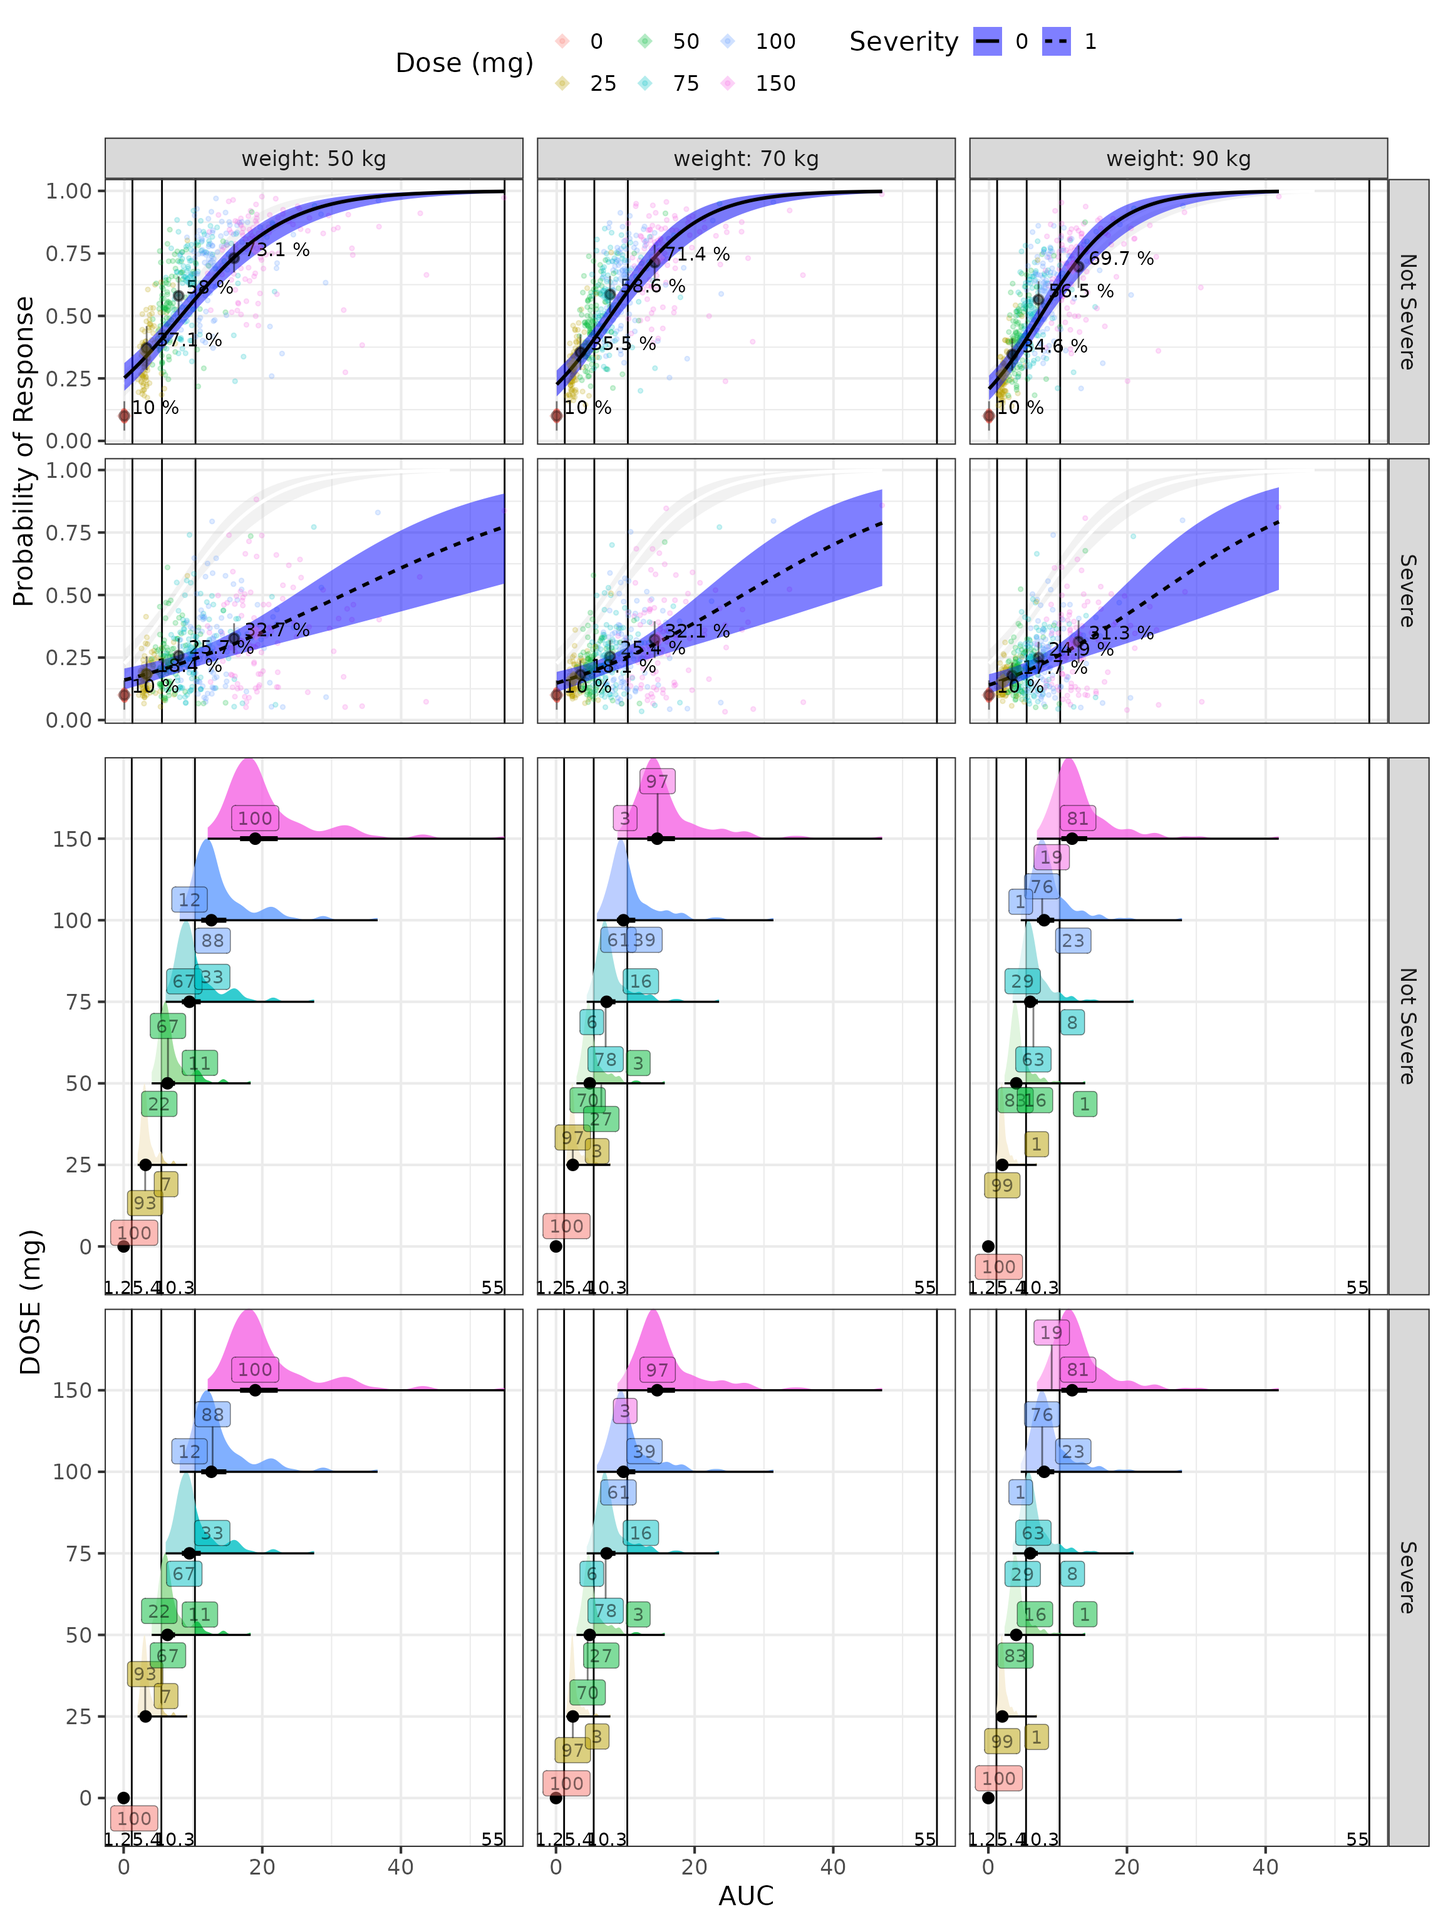
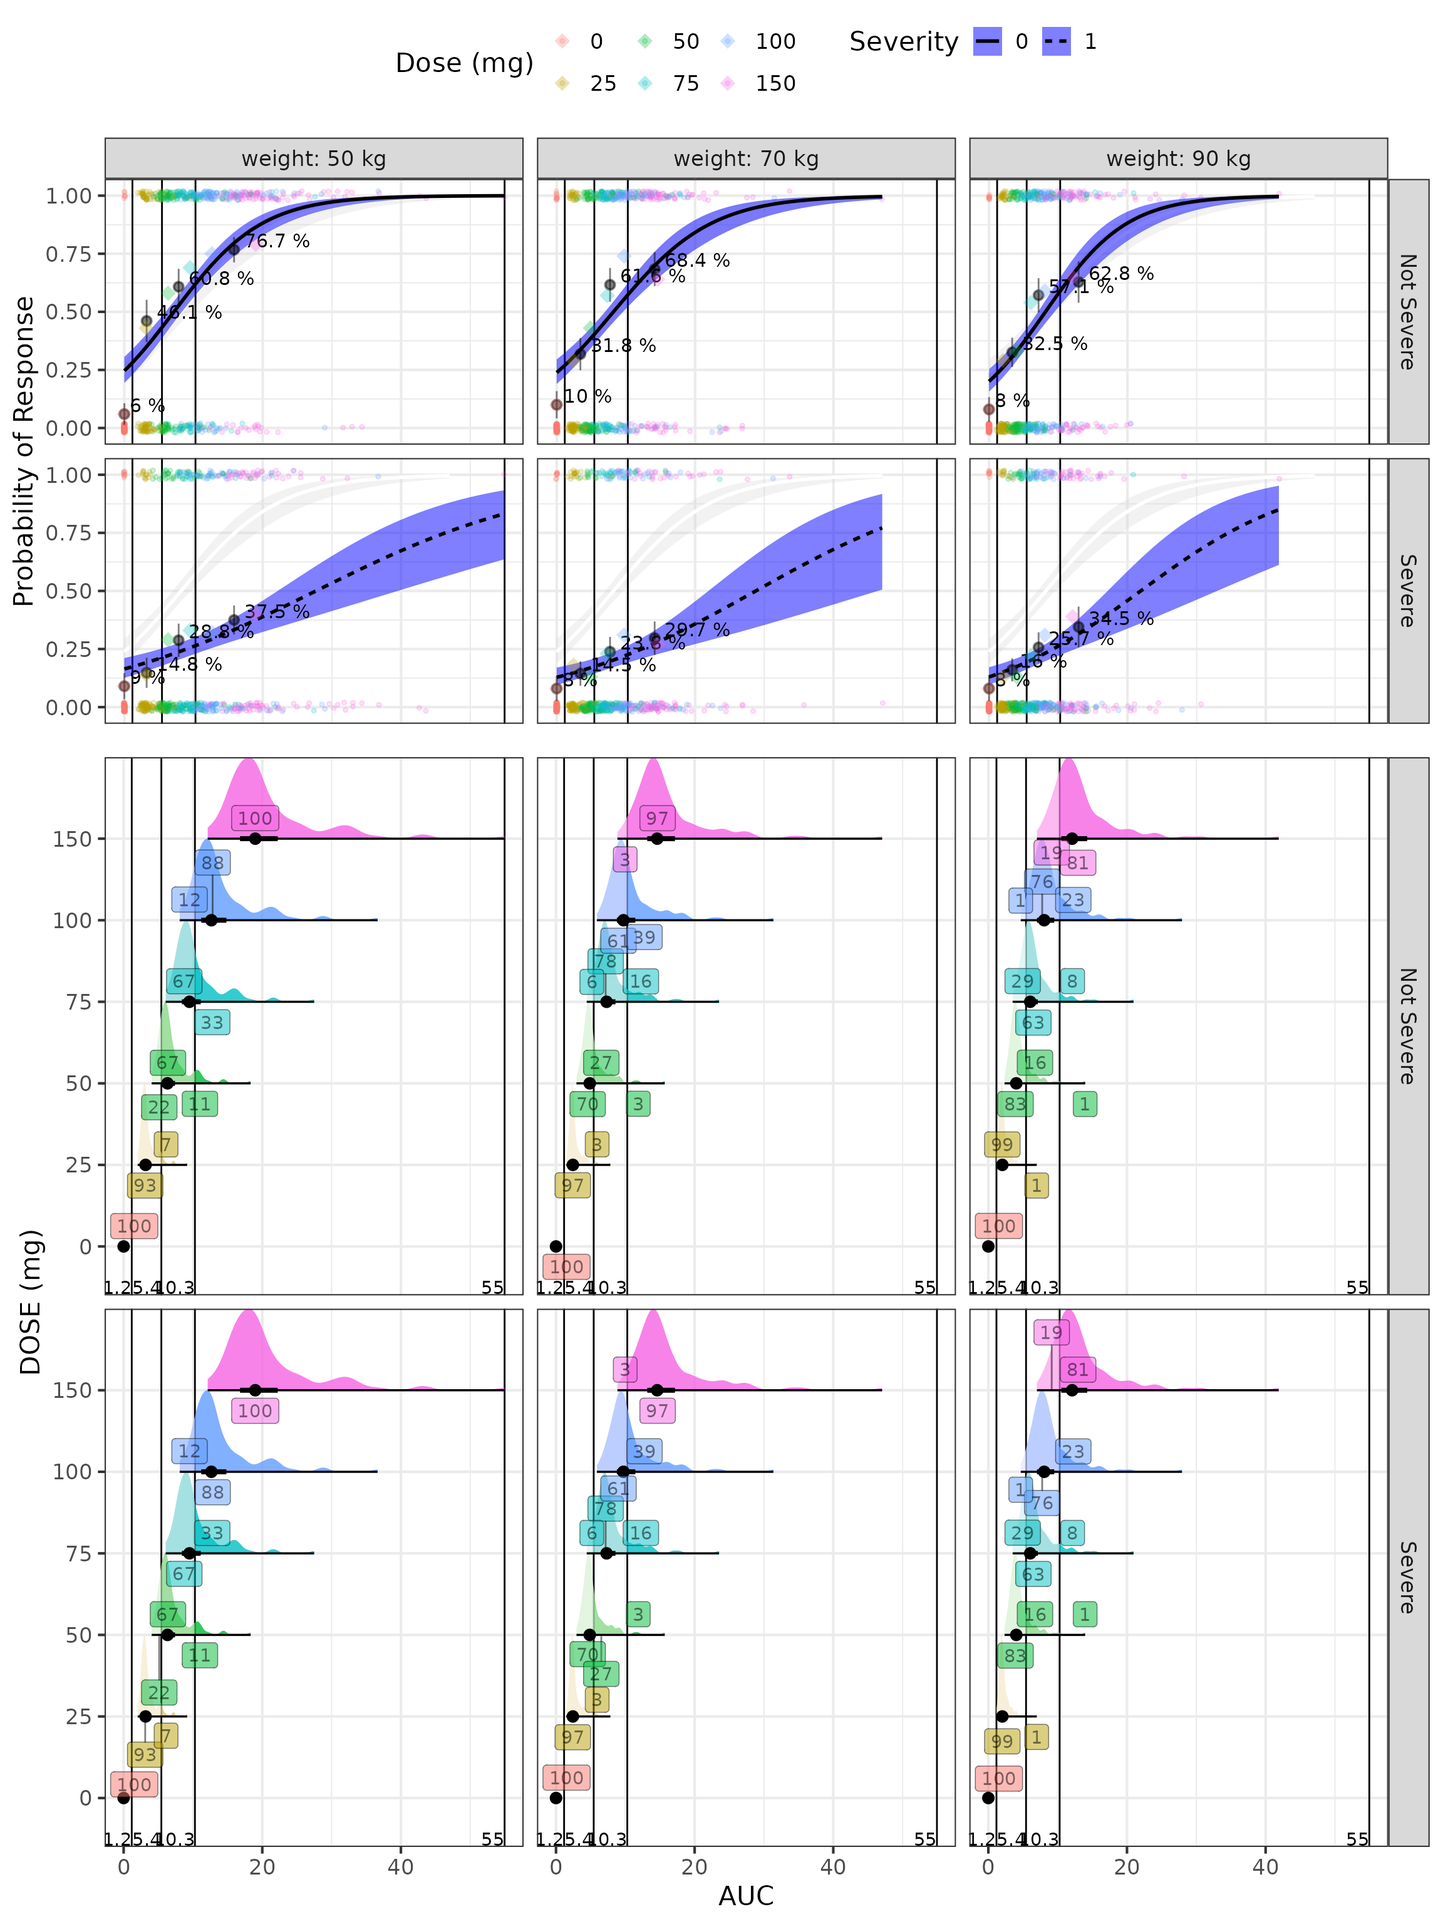
Deploying to gh-pages from @ smouksassi/coveffectsplot@5ed980b9ddfde2c44ce375ef0fc3a2d679f15c0f 🚀

diff --git a/articles/Exposure_Response_Example.html b/articles/Exposure_Response_Example.html
@@ -133,9 +133,10 @@ $$</span> The equation of the log(odds) becomes: <span class="math display">$$lo
 <span><span class="va">TypicalProb</span><span class="op">&lt;-</span> <span class="fl">1</span><span class="op">/</span><span class="op">(</span><span class="fl">1</span><span class="op">+</span><span class="fu"><a href="https://rdrr.io/r/base/Log.html" class="external-link">exp</a></span><span class="op">(</span><span class="op">-</span><span class="op">(</span><span class="fu"><a href="https://rdrr.io/r/base/Log.html" class="external-link">log</a></span><span class="op">(</span><span class="fl">0.1</span><span class="op">/</span><span class="op">(</span><span class="fl">1</span><span class="op">-</span><span class="fl">0.1</span><span class="op">)</span><span class="op">)</span> <span class="op">+</span> <span class="op">(</span><span class="fl">5</span><span class="op">*</span><span class="fl">75</span><span class="op">/</span><span class="fl">10</span><span class="op">/</span><span class="op">(</span><span class="fl">7.5</span><span class="op">+</span><span class="fl">75</span><span class="op">/</span><span class="fl">10</span><span class="op">)</span><span class="op">)</span><span class="op">)</span><span class="op">)</span><span class="op">)</span></span>
 <span><span class="va">MaxProb</span><span class="op">&lt;-</span> <span class="fl">1</span><span class="op">/</span><span class="op">(</span><span class="fl">1</span><span class="op">+</span><span class="fu"><a href="https://rdrr.io/r/base/Log.html" class="external-link">exp</a></span><span class="op">(</span><span class="op">-</span><span class="op">(</span><span class="fu"><a href="https://rdrr.io/r/base/Log.html" class="external-link">log</a></span><span class="op">(</span><span class="fl">0.1</span><span class="op">/</span><span class="op">(</span><span class="fl">1</span><span class="op">-</span><span class="fl">0.1</span><span class="op">)</span><span class="op">)</span> <span class="op">+</span> <span class="op">(</span><span class="fl">5</span><span class="op">*</span><span class="fl">750</span><span class="op">/</span><span class="fl">10</span><span class="op">/</span><span class="op">(</span><span class="fl">7.5</span><span class="op">+</span><span class="fl">750</span><span class="op">/</span><span class="fl">10</span><span class="op">)</span><span class="op">)</span><span class="op">)</span><span class="op">)</span><span class="op">)</span></span>
 <span><span class="va">MinProb</span><span class="op">&lt;-</span> <span class="fl">1</span><span class="op">/</span><span class="op">(</span><span class="fl">1</span><span class="op">+</span><span class="fu"><a href="https://rdrr.io/r/base/Log.html" class="external-link">exp</a></span><span class="op">(</span><span class="op">-</span><span class="op">(</span><span class="fu"><a href="https://rdrr.io/r/base/Log.html" class="external-link">log</a></span><span class="op">(</span><span class="fl">0.1</span><span class="op">/</span><span class="op">(</span><span class="fl">1</span><span class="op">-</span><span class="fl">0.1</span><span class="op">)</span><span class="op">)</span> <span class="op">+</span> <span class="op">(</span><span class="fl">5</span><span class="op">*</span><span class="fl">0</span><span class="op">/</span><span class="fl">10</span><span class="op">/</span><span class="op">(</span><span class="fl">7.5</span><span class="op">+</span><span class="fl">0</span><span class="op">/</span><span class="fl">10</span><span class="op">)</span><span class="op">)</span><span class="op">)</span><span class="op">)</span><span class="op">)</span></span>
-<span><span class="co">#$PLUGIN Rcpp</span></span>
+<span><span class="co">#</span></span>
 <span><span class="co"># R::runif(0,1)&lt; P1 ? 1 : 0</span></span>
 <span><span class="va">exprespmodel</span> <span class="op">&lt;-</span> <span class="st">'</span></span>
+<span><span class="st">$PLUGIN Rcpp</span></span>
 <span><span class="st">$PARAM @annotated</span></span>
 <span><span class="st">TVCL    : 10  : Clearance CL (L/h)</span></span>
 <span><span class="st">WTCL    : 0.75: Weight on CL (ref. 70 kg)</span></span>
@@ -164,7 +165,7 @@ $$</span> The equation of the log(odds) becomes: <span class="math display">$$lo
 <span><span class="st">capture AUC = DOSE/CL;</span></span>
 <span><span class="st">capture LGST = Intercept + (EMAX*AUC/(AUC50+AUC));</span></span>
 <span><span class="st">capture P1 = 1/(1+exp(-LGST));</span></span>
-<span><span class="st">capture DV = P1;</span></span>
+<span><span class="st">capture DV = R::runif(0,1)&lt; P1 ? 1 : 0;</span></span>
 <span><span class="st">'</span></span>
 <span></span>
 <span><span class="va">modexprespsim</span> <span class="op">&lt;-</span> <span class="fu">mcode</span><span class="op">(</span><span class="st">"exprespmodel"</span>, <span class="va">exprespmodel</span><span class="op">)</span></span>
@@ -179,7 +180,7 @@ $$</span> The equation of the log(odds) becomes: <span class="math display">$$lo
 <span>  <span class="fu">mrgsim</span><span class="op">(</span><span class="op">)</span><span class="op"><a href="https://magrittr.tidyverse.org/reference/pipe.html" class="external-link">%&gt;%</a></span></span>
 <span>  <span class="va">as.data.frame</span></span>
 <span></span>
-<span>  <span class="va">simout</span><span class="op">$</span><span class="va">DV</span> <span class="op">=</span> <span class="fu"><a href="https://rdrr.io/r/base/ifelse.html" class="external-link">ifelse</a></span><span class="op">(</span><span class="fu"><a href="https://rdrr.io/r/stats/Uniform.html" class="external-link">runif</a></span><span class="op">(</span>n<span class="op">=</span><span class="fu"><a href="https://rdrr.io/r/base/nrow.html" class="external-link">nrow</a></span><span class="op">(</span><span class="va">simout</span><span class="op">)</span>,min<span class="op">=</span><span class="fl">0</span>,max<span class="op">=</span><span class="fl">1</span><span class="op">)</span><span class="op">&lt;</span> <span class="va">simout</span><span class="op">$</span><span class="va">P1</span>,<span class="fl">1</span> , <span class="fl">0</span><span class="op">)</span></span></code></pre></div>
+<span><span class="co">#simout$DV = ifelse(runif(n=nrow(simout),min=0,max=1)&lt; simout$P1,1 , 0)</span></span></code></pre></div>
 </div>
 <div class="section level3">
 <h3 id="visualizing-probability-of-cure">Visualizing Probability of Cure<a class="anchor" aria-label="anchor" href="#visualizing-probability-of-cure"></a>
@@ -577,8 +578,8 @@ present it using a forest plot.</p>
 <span>                    levels <span class="op">=</span> <span class="fu"><a href="https://rdrr.io/r/base/c.html" class="external-link">c</a></span><span class="op">(</span><span class="st">"Weight"</span>,<span class="st">"DOSE"</span>,<span class="st">"SEV"</span>,<span class="st">"REF"</span>,<span class="st">"BSV"</span><span class="op">)</span><span class="op">)</span></span>
 <span></span>
 <span><span class="va">ref_legend_text</span>      <span class="op">&lt;-</span> <span class="st">"Reference (vertical line)"</span></span>
-<span><span class="fu"><a href="https://rdrr.io/r/grDevices/png.html" class="external-link">png</a></span><span class="op">(</span><span class="st">"./Figure_8_4.png"</span>,width <span class="op">=</span><span class="fl">9</span> ,height <span class="op">=</span> <span class="fl">7</span>,units <span class="op">=</span> <span class="st">"in"</span>,res<span class="op">=</span><span class="fl">72</span><span class="op">)</span></span>
-<span><span class="fu"><a href="../reference/forest_plot.html">forest_plot</a></span><span class="op">(</span><span class="va">coveffectsdatacovrepbsv</span>,</span>
+<span><span class="co">#png("./Figure_8_4.png",width =9 ,height = 7,units = "in",res=72)</span></span>
+<span><span class="va">fpp</span> <span class="op">&lt;-</span> <span class="fu"><a href="../reference/forest_plot.html">forest_plot</a></span><span class="op">(</span><span class="va">coveffectsdatacovrepbsv</span>,</span>
 <span>                            strip_placement <span class="op">=</span> <span class="st">"outside"</span>,</span>
 <span>                            show_ref_area <span class="op">=</span> <span class="cn">FALSE</span>,</span>
 <span>                            show_ref_value<span class="op">=</span><span class="cn">TRUE</span>,</span>
@@ -598,14 +599,12 @@ present it using a forest plot.</p>
 <span>                            facet_space <span class="op">=</span><span class="st">"free"</span>,</span>
 <span>                            logxscale              <span class="op">=</span> <span class="cn">TRUE</span>,</span>
 <span>                            major_x_ticks          <span class="op">=</span> <span class="fu"><a href="https://rdrr.io/r/base/c.html" class="external-link">c</a></span><span class="op">(</span><span class="fl">0.1</span>,<span class="fl">0.25</span>, <span class="fl">0.5</span>,<span class="fl">1</span>,<span class="fl">1.5</span><span class="op">)</span>,</span>
-<span>                            x_range                <span class="op">=</span> <span class="fu"><a href="https://rdrr.io/r/base/c.html" class="external-link">c</a></span><span class="op">(</span><span class="fl">0.1</span>, <span class="fl">1.5</span><span class="op">)</span><span class="op">)</span></span>
-<span></span>
-<span><span class="fu"><a href="https://rdrr.io/r/grDevices/dev.html" class="external-link">dev.off</a></span><span class="op">(</span><span class="op">)</span></span>
-<span><span class="co">#&gt; agg_png </span></span>
-<span><span class="co">#&gt;       2</span></span></code></pre></div>
-<div class="float">
-<img src="Figure_8_4.png" alt="Covariate Effects Plot."><div class="figcaption">Covariate Effects Plot.</div>
-</div>
+<span>                            x_range                <span class="op">=</span> <span class="fu"><a href="https://rdrr.io/r/base/c.html" class="external-link">c</a></span><span class="op">(</span><span class="fl">0.1</span>, <span class="fl">1.5</span><span class="op">)</span><span class="op">)</span></span></code></pre></div>
+<p><img src="Exposure_Response_Example_files/figure-html/plot3-1.png" width="864"></p>
+<div class="sourceCode" id="cb8"><pre class="downlit sourceCode r">
+<code class="sourceCode R"><span></span>
+<span><span class="co">#dev.off()</span></span>
+<span><span class="co">#![Covariate Effects Plot.](./Figure_8_4.png)</span></span></code></pre></div>
 </div>
 <div class="section level3">
 <h3 id="doseexposure-response-curves">Dose/Exposure Response Curves<a class="anchor" aria-label="anchor" href="#doseexposure-response-curves"></a>
@@ -614,7 +613,7 @@ present it using a forest plot.</p>
 combination of dose levels and covariate values) simulations when
 visualizing dose/exposure/response curves. In this section we show how
 to construct such a curve:</p>
-<div class="sourceCode" id="cb8"><pre class="downlit sourceCode r">
+<div class="sourceCode" id="cb9"><pre class="downlit sourceCode r">
 <code class="sourceCode R"><span><span class="va">covcombdr</span> <span class="op">&lt;-</span> <span class="fu"><a href="https://rdrr.io/r/base/expand.grid.html" class="external-link">expand.grid</a></span><span class="op">(</span></span>
 <span>  WT  <span class="op">=</span> <span class="fu"><a href="https://rdrr.io/r/base/c.html" class="external-link">c</a></span><span class="op">(</span><span class="fl">50</span>,<span class="fl">70</span>,<span class="fl">90</span><span class="op">)</span>,</span>
 <span>  DOSE <span class="op">=</span> <span class="fu"><a href="https://rdrr.io/r/base/c.html" class="external-link">c</a></span><span class="op">(</span><span class="fl">0</span>,<span class="fl">25</span>,<span class="fl">50</span>,<span class="fl">75</span>,<span class="fl">100</span>,<span class="fl">150</span><span class="op">)</span>,</span>
@@ -645,7 +644,7 @@ to construct such a curve:</p>
 <span>  <span class="va">iter_sims</span> <span class="op">&lt;-</span> <span class="fu"><a href="https://rdrr.io/r/base/cbind.html" class="external-link">rbind</a></span><span class="op">(</span><span class="va">iter_sims</span>,<span class="va">dfsimunc</span><span class="op">)</span></span>
 <span><span class="op">}</span></span>
 <span><span class="va">iter_sims</span> <span class="op">&lt;-</span> <span class="fu"><a href="https://rdrr.io/pkg/data.table/man/data.table.html" class="external-link">data.table</a></span><span class="op">(</span><span class="va">iter_sims</span><span class="op">)</span></span></code></pre></div>
-<div class="sourceCode" id="cb9"><pre class="downlit sourceCode r">
+<div class="sourceCode" id="cb10"><pre class="downlit sourceCode r">
 <code class="sourceCode R"><span><span class="va">summary_P1</span> <span class="op">&lt;-</span> <span class="kw">function</span><span class="op">(</span><span class="va">P1</span><span class="op">)</span> <span class="op">{</span></span>
 <span>  <span class="va">x</span> <span class="op">&lt;-</span> <span class="fu"><a href="https://rdrr.io/r/base/c.html" class="external-link">c</a></span><span class="op">(</span></span>
 <span>    P1med <span class="op">=</span> <span class="fu"><a href="https://rdrr.io/r/stats/median.html" class="external-link">median</a></span><span class="op">(</span><span class="va">P1</span><span class="op">)</span>,</span>
@@ -711,7 +710,7 @@ to construct such a curve:</p>
 </h2>
 <p>We take the plot a step further by showing the distributions of AUcs
 by Dose level and severity.</p>
-<div class="sourceCode" id="cb10"><pre class="downlit sourceCode r">
+<div class="sourceCode" id="cb11"><pre class="downlit sourceCode r">
 <code class="sourceCode R"><span></span>
 <span><span class="va">vlines</span> <span class="op">&lt;-</span> <span class="fu"><a href="https://rdrr.io/r/stats/quantile.html" class="external-link">quantile</a></span><span class="op">(</span><span class="va">iter_sims</span><span class="op">$</span><span class="va">AUC</span><span class="op">[</span><span class="va">iter_sims</span><span class="op">$</span><span class="va">AUC</span><span class="op">&gt;</span><span class="fl">0</span><span class="op">]</span>,probs <span class="op">=</span> <span class="fu"><a href="https://rdrr.io/r/base/c.html" class="external-link">c</a></span><span class="op">(</span><span class="fl">0</span>,<span class="fl">1</span><span class="op">/</span><span class="fl">3</span>,<span class="fl">2</span><span class="op">/</span><span class="fl">3</span>,<span class="fl">1</span><span class="op">)</span>,na.rm <span class="op">=</span> <span class="cn">TRUE</span><span class="op">)</span></span>
 <span><span class="va">iter_sims</span><span class="op">$</span><span class="va">PLACEBO</span> <span class="op">&lt;-</span> <span class="fu"><a href="https://rdrr.io/r/base/ifelse.html" class="external-link">ifelse</a></span><span class="op">(</span><span class="va">iter_sims</span><span class="op">$</span><span class="va">DOSE</span><span class="op">&gt;</span><span class="fl">0</span>,<span class="st">"Active"</span>,<span class="st">"PLACEBO"</span><span class="op">)</span></span>
@@ -778,7 +777,7 @@ by Dose level and severity.</p>
 <p><img src="Exposure_Response_Example_files/figure-html/plot5-1.png" width="1152">
 Finally, we color by dose level and compute percent of the AUC
 distribution by dose level that is within the overall AUC tertiles.</p>
-<div class="sourceCode" id="cb11"><pre class="downlit sourceCode r">
+<div class="sourceCode" id="cb12"><pre class="downlit sourceCode r">
 <code class="sourceCode R"><span></span>
 <span><span class="va">percentineachbreakcategory</span> <span class="op">&lt;-</span> <span class="va">iter_sims</span> <span class="op"><a href="https://magrittr.tidyverse.org/reference/pipe.html" class="external-link">%&gt;%</a></span> </span>
 <span>  <span class="fu"><a href="https://dplyr.tidyverse.org/reference/mutate.html" class="external-link">mutate</a></span><span class="op">(</span>AUC_bins<span class="op">=</span><span class="fu">table1</span><span class="fu">::</span><span class="fu"><a href="https://rdrr.io/pkg/table1/man/eqcut.html" class="external-link">eqcut</a></span><span class="op">(</span><span class="va">AUC</span>,<span class="fl">3</span>,withhold <span class="op">=</span> <span class="fu"><a href="https://rdrr.io/r/base/list.html" class="external-link">list</a></span><span class="op">(</span>PLACEBO<span class="op">=</span><span class="va">AUC</span><span class="op">==</span><span class="fl">0</span><span class="op">)</span><span class="op">)</span><span class="op">)</span> <span class="op"><a href="https://magrittr.tidyverse.org/reference/pipe.html" class="external-link">%&gt;%</a></span> </span>

diff --git a/articles/introduction_to_coveffectsplot.html b/articles/introduction_to_coveffectsplot.html
@@ -97,7 +97,7 @@
                         <h4 data-toc-skip class="author">Samer
 Mouksassi</h4>
             
-            <h4 data-toc-skip class="date">2025-01-11</h4>
+            <h4 data-toc-skip class="date">2025-01-12</h4>
       
       <small class="dont-index">Source: <a href="https://github.com/smouksassi/coveffectsplot/blob/main/vignettes/introduction_to_coveffectsplot.Rmd" class="external-link"><code>vignettes/introduction_to_coveffectsplot.Rmd</code></a></small>
       <div class="hidden name"><code>introduction_to_coveffectsplot.Rmd</code></div>
